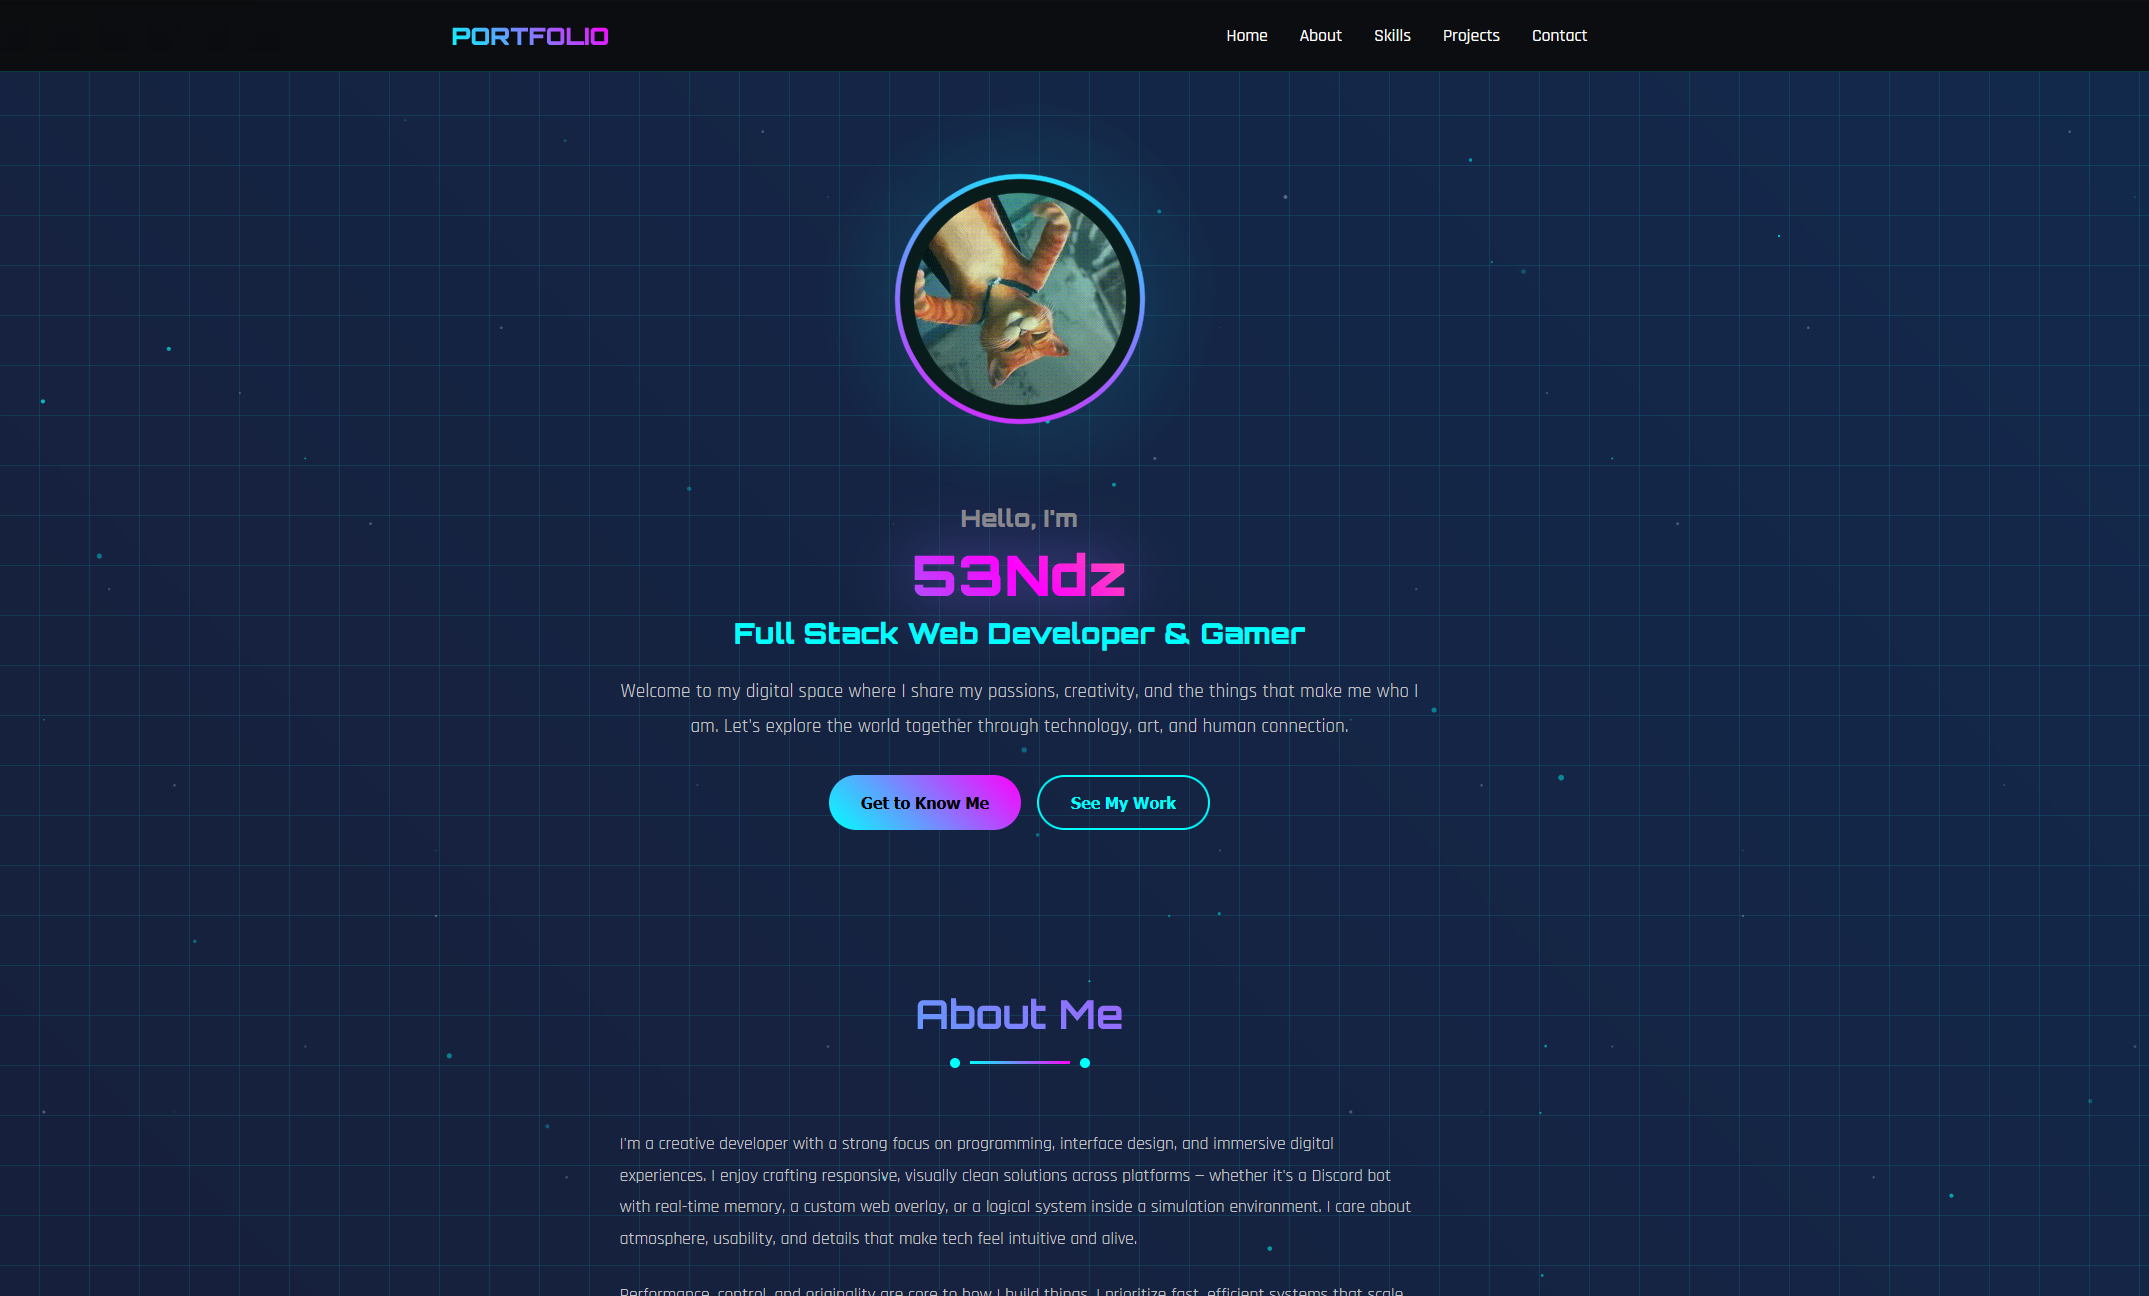
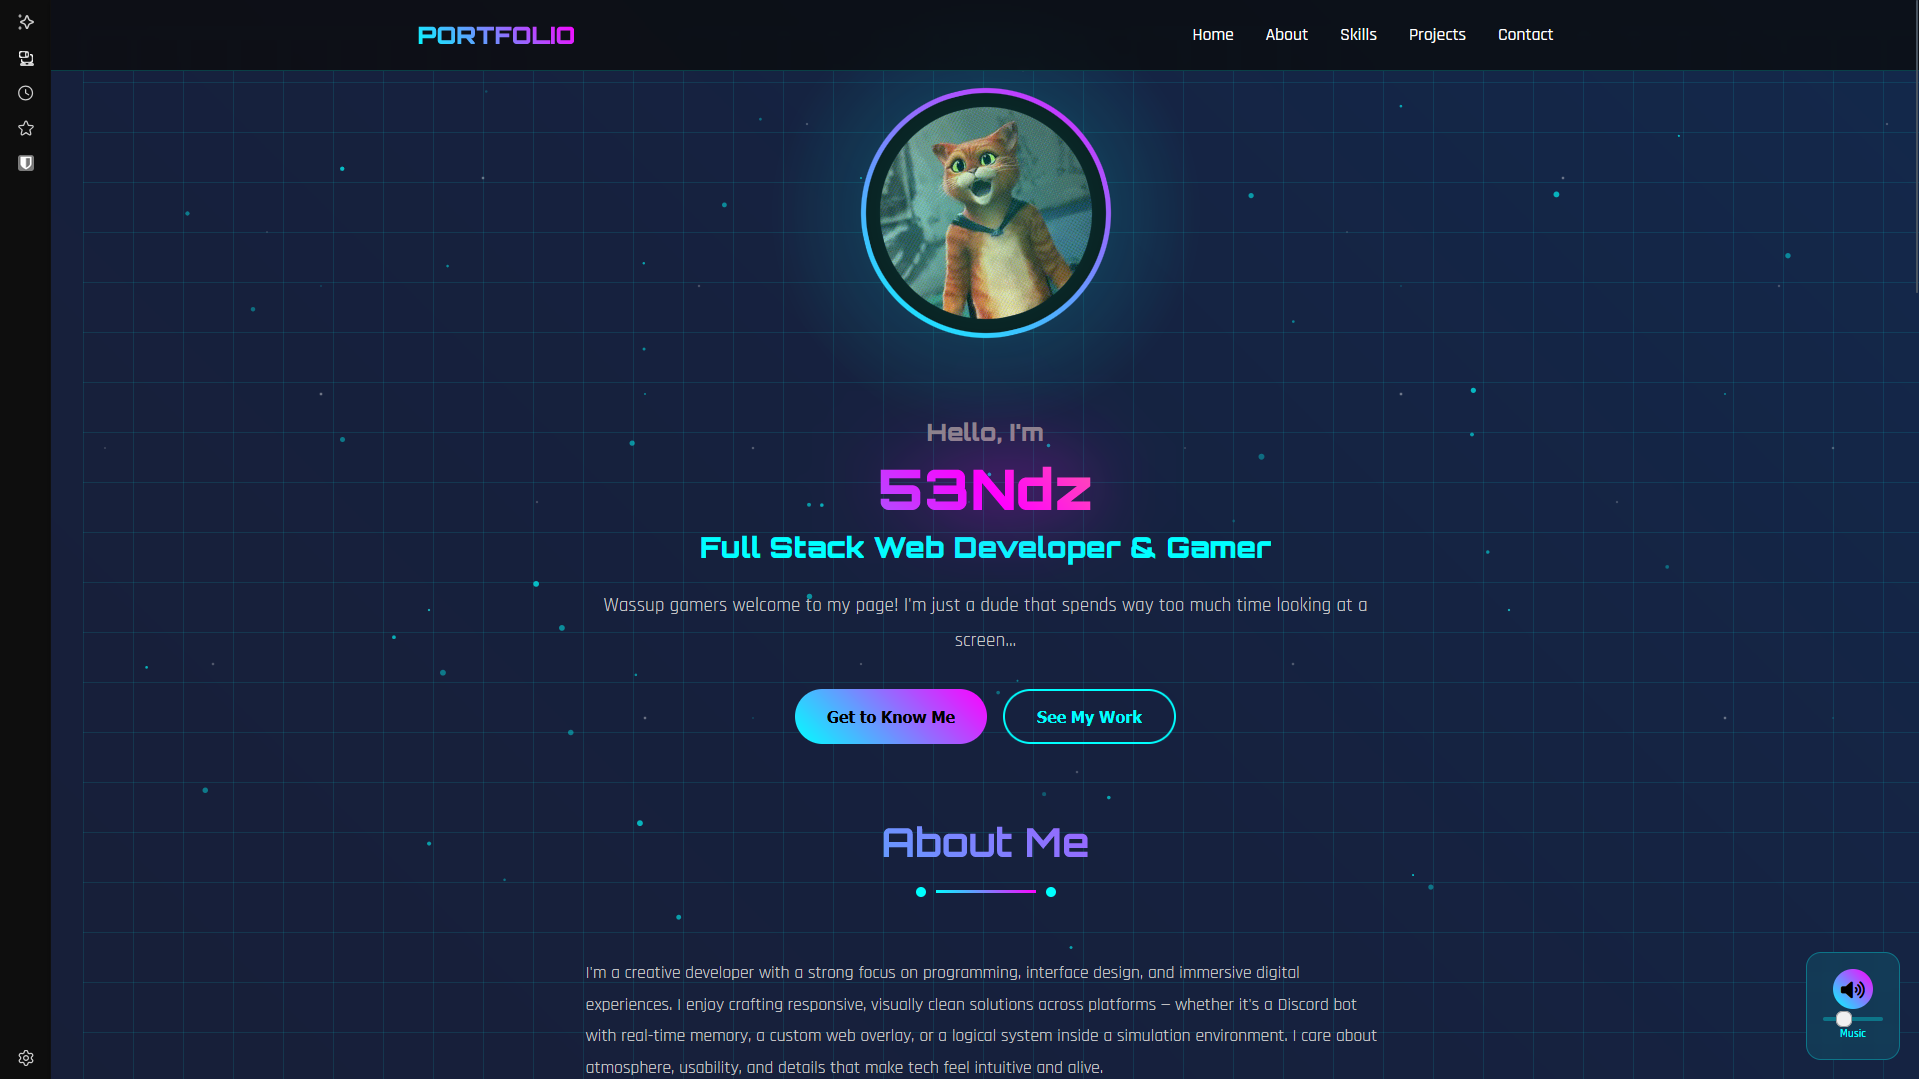
Minor changes to Hero section and css

diff --git a/AboutMe.html b/AboutMe.html
@@ -68,8 +68,7 @@
                         <span class="title-role">Full Stack Web Developer & Gamer</span>
                     </h1>
                     <p class="hero-description">
-                        Welcome to my digital space where I share my passions, creativity, and the things that make me who I am.
-                        Let's explore the world together through technology, art, and human connection.
+                        Wassup gamers welcome to my page! I'm just a dude that spends way too much time looking at a screen... 
                     </p>
                     <div class="hero-buttons">
                         <button class="btn btn-primary" onclick="showNotification('Get to Know Me button isnt finished yet, sadly','error')">Get to Know Me</button>
@@ -107,16 +106,15 @@
                     </p>
                     <p>
                         Wait.. Did AI just write all that stupid jargon? Yeah. It did. Cope lol. 
-                        Anyways welcome to my page!
                     </p>
                     <div class="stats">
                         <div class="stat-item">
-                            <span class="stat-number">4</span>
-                            <span class="stat-label">Countries Visited</span>
+                            <span class="stat-number">600</span>
+                            <span class="stat-label">People met</span>
                         </div>
                         <div class="stat-item">
-                            <span class="stat-number">5</span>
-                            <span class="stat-label">Years of Experience</span>
+                            <span class="stat-number">142 000</span>
+                            <span class="stat-label">Hours alive</span>
                         </div>
                         <div class="stat-item">
                             <span class="stat-number">15000</span>
@@ -218,7 +216,7 @@
                     </div>
                     <div class="project-content">
                         <h3>7 Segment Array Clock in CM2</h3>
-                        <p>And it got featured the official CM2 discord server!</p>
+                        <p>And it got featured on the official CM2 discord server!</p>
                         <div class="project-tech">
                             <span class="tech-tag">Logic Gates</span>
                             <span class="tech-tag">Roblox</span>

diff --git a/styles.css b/styles.css
@@ -170,7 +170,7 @@ body {
 
 /* Hero Section */
 .hero {
-    min-height: 75vh;
+    min-height: 100vh;
     display: flex;
     align-items: center;
     position: relative;
@@ -186,7 +186,7 @@ body {
     flex-direction: column;
     align-items: center;
     text-align: center;
-    gap: 2rem;
+    gap: 4rem;
     max-width: 800px;
     margin: 0 auto;
 }
